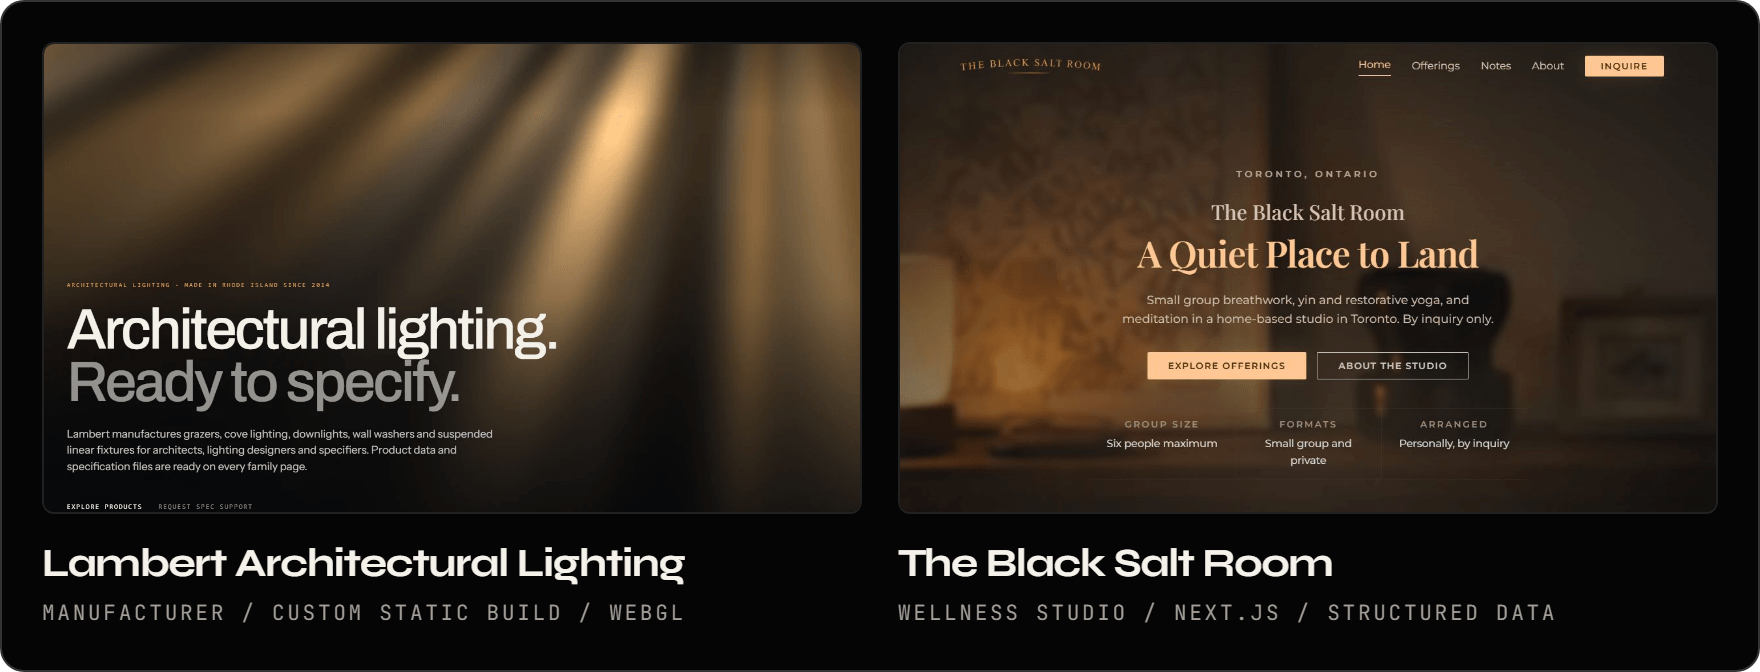
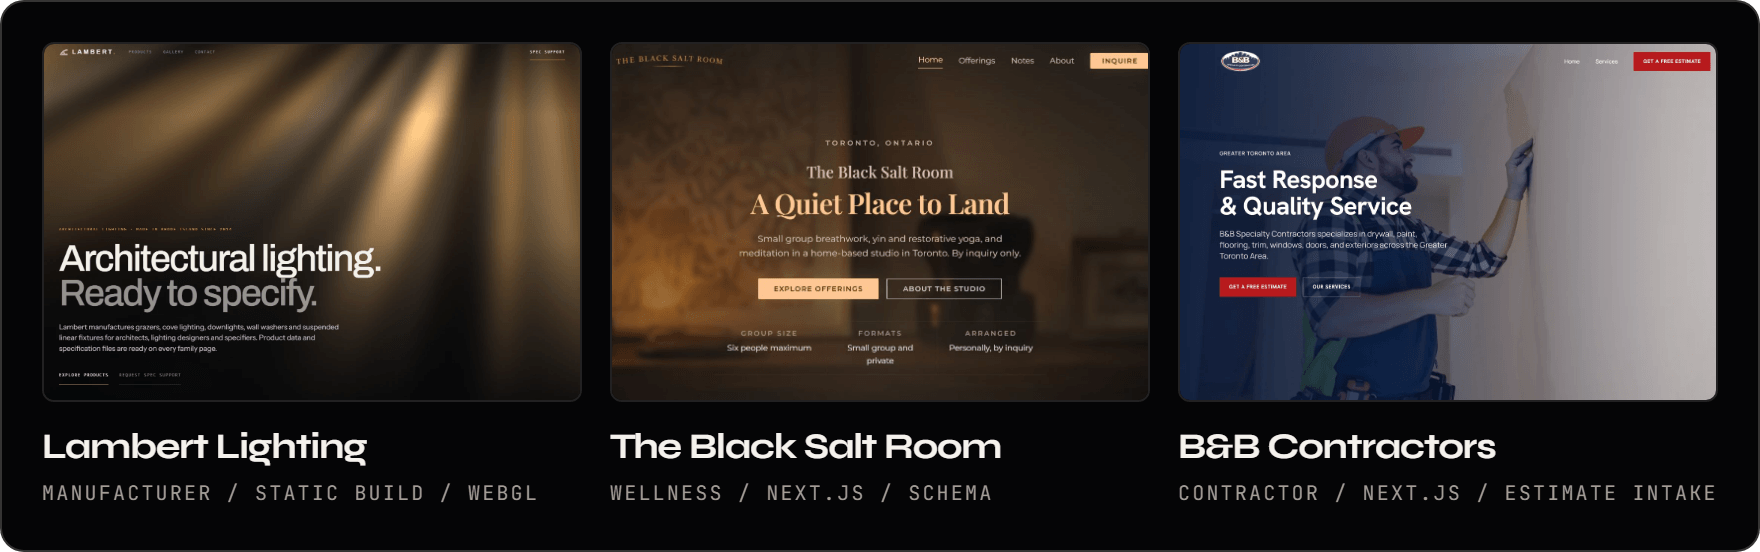
Add B&B Specialty Contractors and label open-source projects

diff --git a/README.md b/README.md
@@ -11,7 +11,7 @@
 
 <picture>
   <source media="(max-width: 600px)" srcset="assets/client-work-mobile.png">
-  <img src="assets/client-work-desktop.png" alt="Home pages of two shipped client websites: Lambert Architectural Lighting and The Black Salt Room." width="100%">
+  <img src="assets/client-work-desktop.png" alt="Home pages of three shipped client websites: Lambert Architectural Lighting, The Black Salt Room and B&B Specialty Contractors." width="100%">
 </picture>
 
 ### Lambert Architectural Lighting
@@ -25,6 +25,12 @@ A 46 MB catalogue PDF rebuilt as a specification website for an architectural li
 Creative direction, content and a Next.js site for a Toronto breathwork and yoga studio. Offering pages carry the chosen practice into a validated inquiry API, with LocalBusiness, Service, FAQ and article structured data. The launch build scored 100 in all four Lighthouse lab categories.
 
 [Case study](https://alexjardinedigital.com/work/salt) · [Live site](https://www.blacksaltroom.com/)
+
+### B&B Specialty Contractors
+
+A focused Next.js site for a Greater Toronto Area renovation contractor, built around its services, service area and one route to a free estimate. A single service list feeds every page, with page-level metadata and HomeAndConstructionBusiness structured data. The owner reports 17 jobs from the site so far.
+
+[Case study](https://alexjardinedigital.com/work/bb) · [Live site](https://bbspecialtycontractors.com/)
 
 ## Technical SEO, built in
 
@@ -66,10 +72,15 @@ An internal Python, FastAPI and React application for business discovery, eviden
 
 [Product and architecture](https://alexjardinedigital.com/work/lead)
 
-## Tools and experiments
+## Open source
+
+Both are MIT licensed, with tests, CI and documentation.
 
 - **[Domain Looker](https://github.com/Krmzyn/domain-looker)**: bulk domain pre-checks against official RDAP data, with an offline demo mode. React, TypeScript and Express.
 - **[GPU Flight Recorder](https://github.com/Krmzyn/gpu-flight-recorder)**: keeps evidence when a Windows display freezes, with a heartbeat that never waits on the GPU. Python, public beta.
+
+## Creative engineering
+
 - **[Portfolio particle engine](https://alexjardinedigital.com/writing/how-this-site-works)**: the WebGL2 field behind the name above. Up to 80,000 points morph on the GPU, transform feedback lets an interrupted transition continue from where the particles were drawn, and shapes keep clear of live page text. [See it live](https://alexjardinedigital.com).
 
 <sub>Client and commercial application source is private. The case studies cover the architecture and the decisions behind it.</sub>
